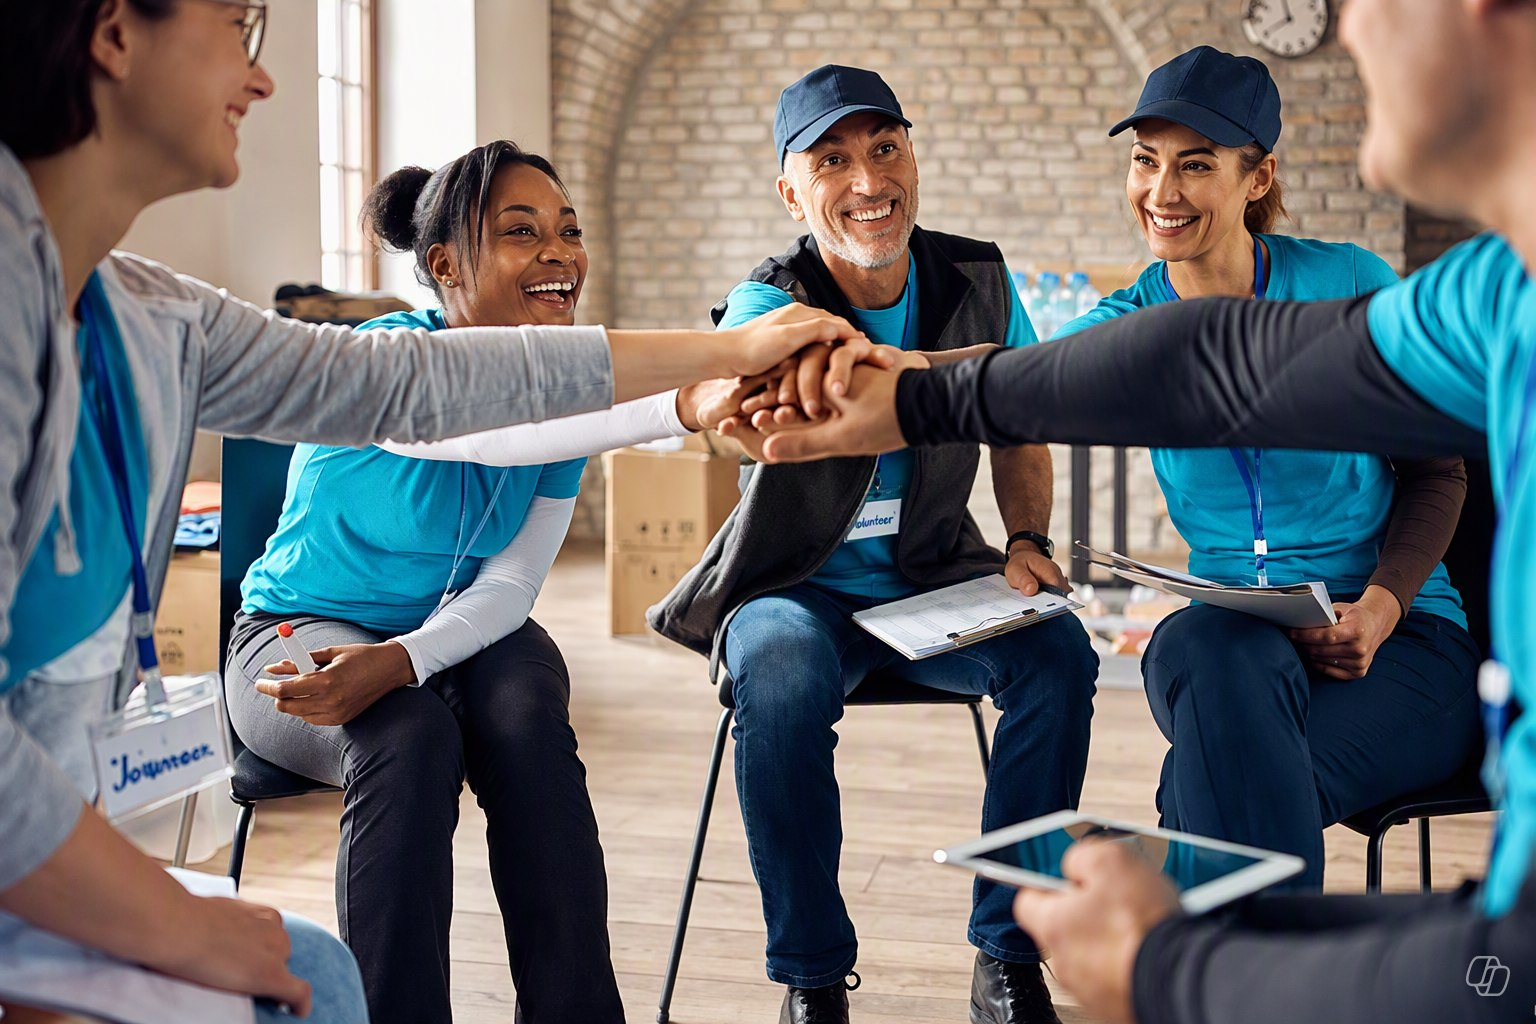
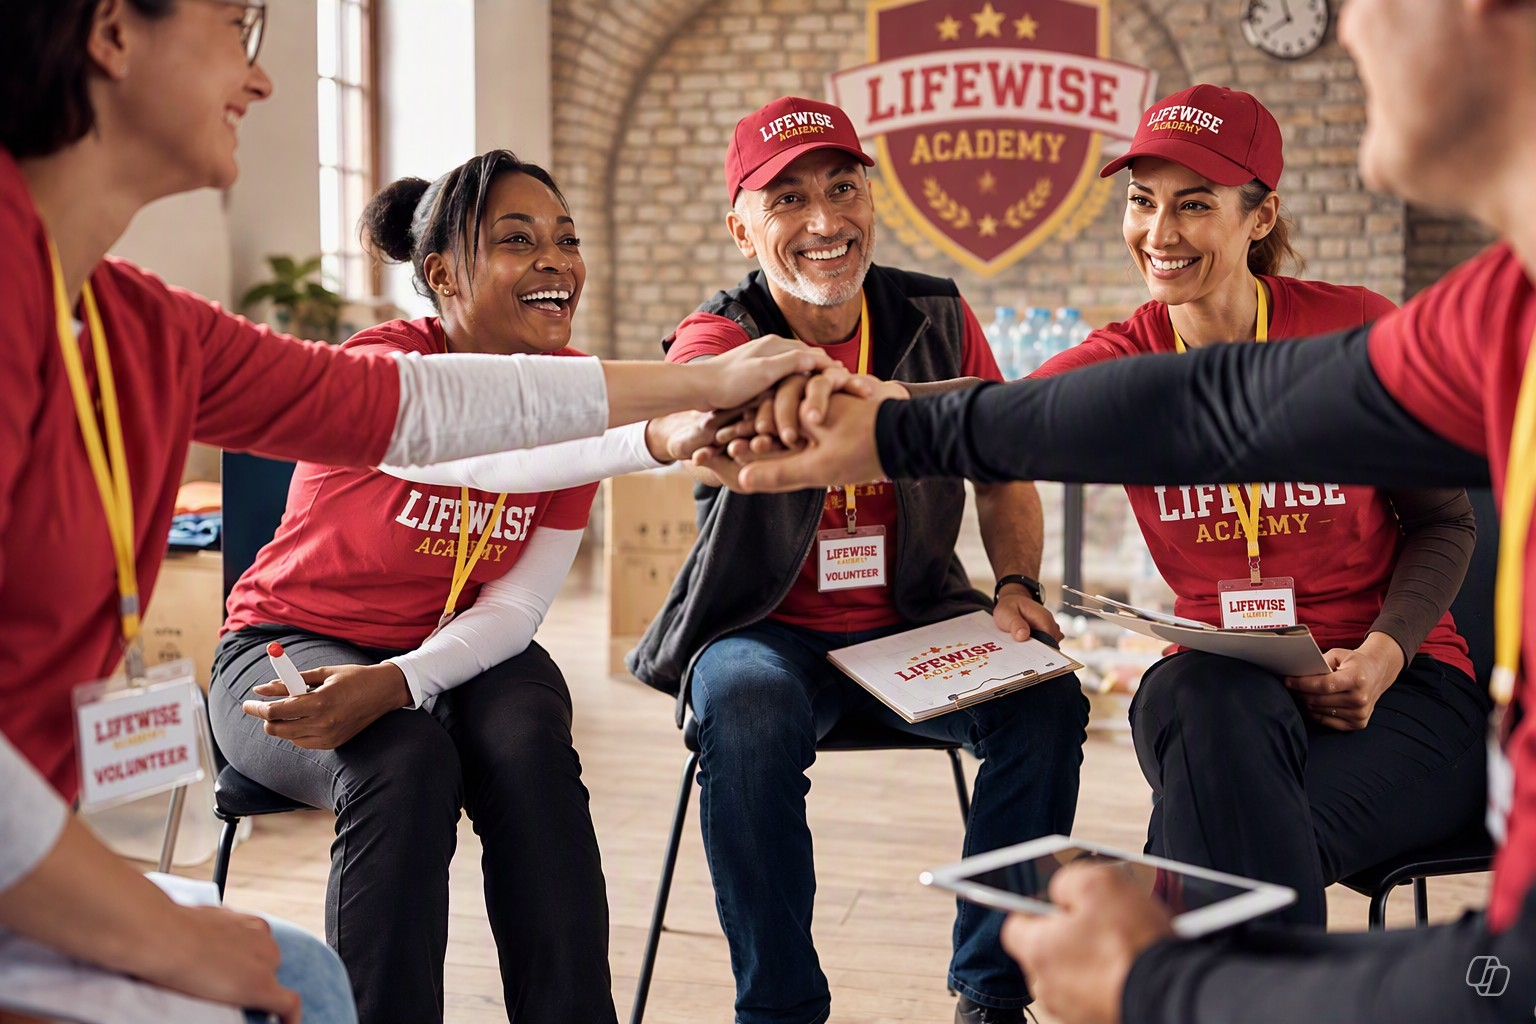
Replace volunteer photo and remove illustration tag

diff --git a/index.html b/index.html
@@ -145,8 +145,7 @@
 
     <section class="give-section" id="give" aria-labelledby="give-title">
       <div class="give-photo">
-        <img src="assets/community-volunteers.jpg" alt="Illustrative photo of community volunteers joining hands">
-        <span class="illustration-note">Community image for illustration</span>
+        <img src="assets/community-volunteers.jpg"         alt="Smiling volunteers in red LifeWise Academy shirts and caps joining hands in a circle">
       </div>
       <div class="give-copy">
         <h2 id="give-title">Put local possibility in motion.</h2>

diff --git a/styles.css b/styles.css
@@ -699,20 +699,6 @@ summary:focus-visible {
   content: "";
 }
 
-.illustration-note {
-  position: absolute;
-  z-index: 1;
-  right: 18px;
-  bottom: 18px;
-  padding: 7px 9px;
-  color: var(--navy);
-  background: var(--yellow);
-  font-size: 9px;
-  font-weight: 900;
-  letter-spacing: 0.08em;
-  text-transform: uppercase;
-}
-
 .give-copy {
   display: flex;
   max-width: 680px;
